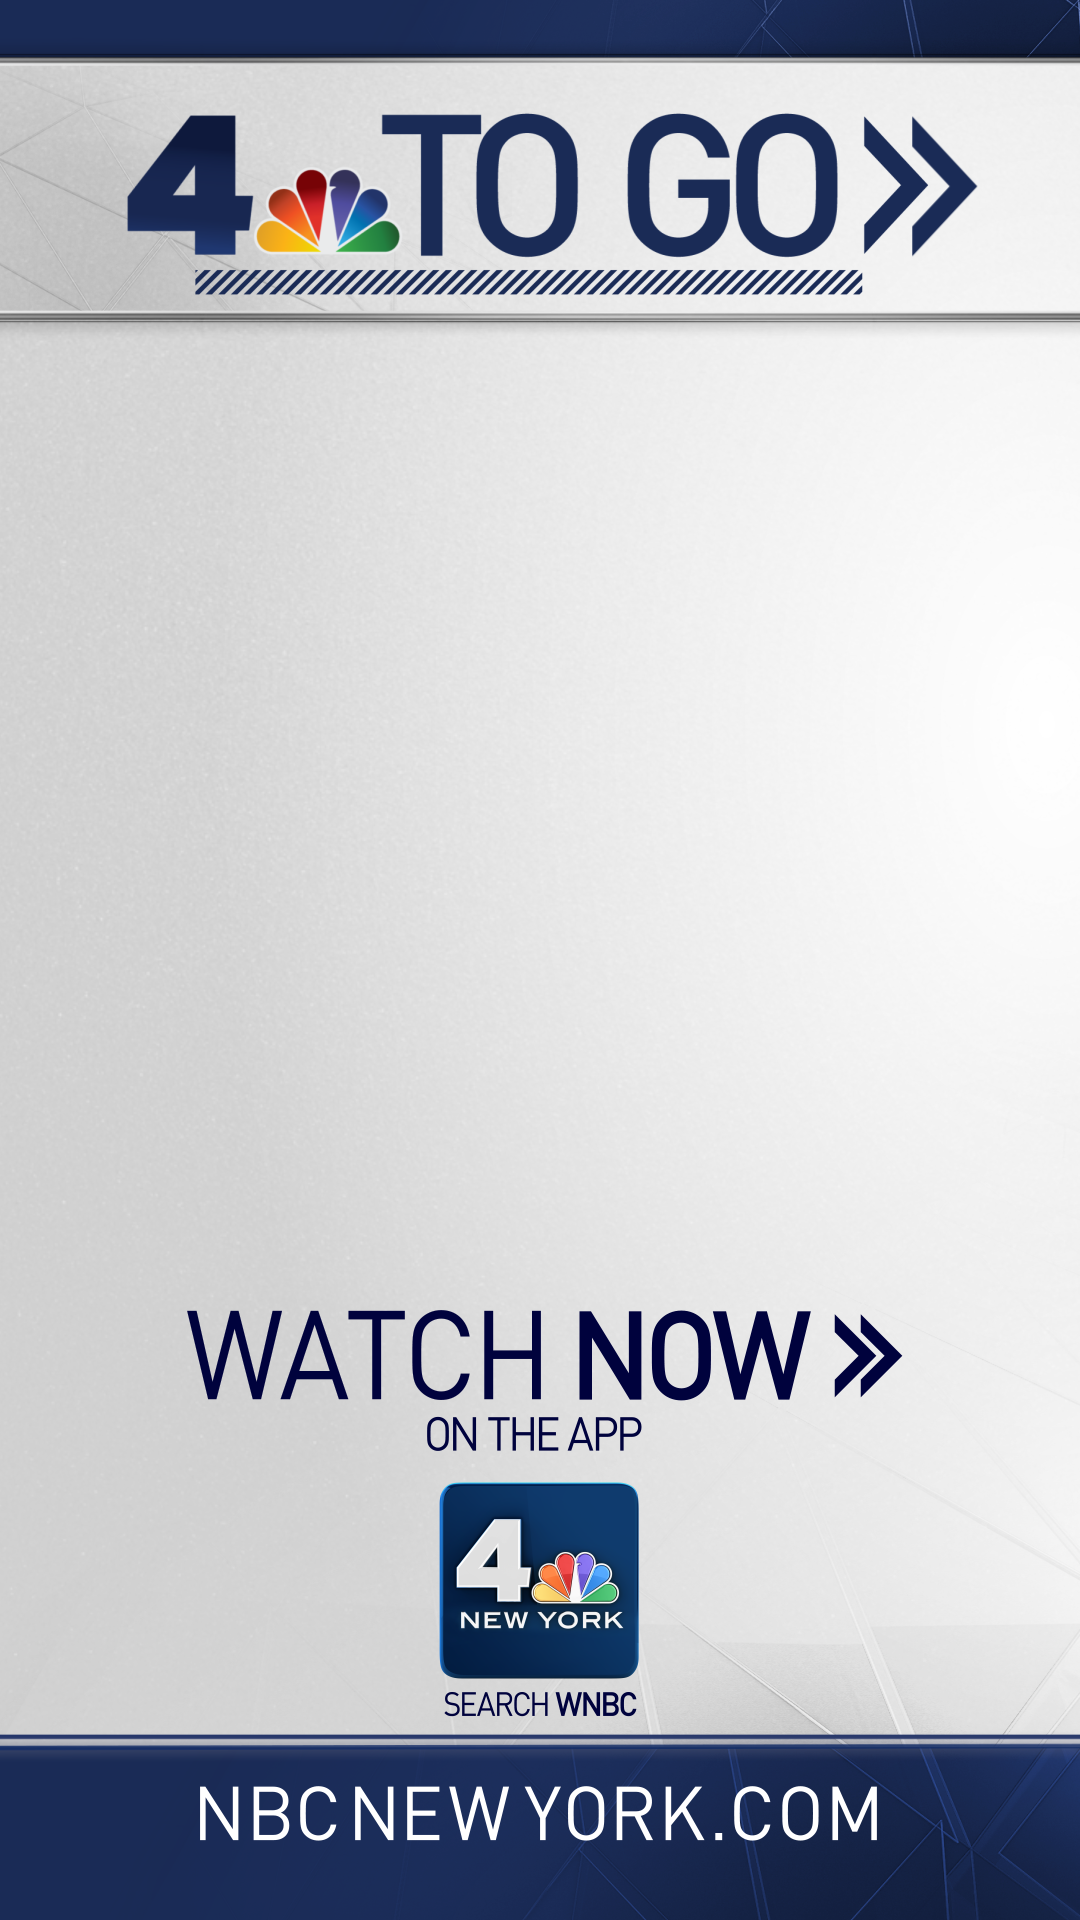
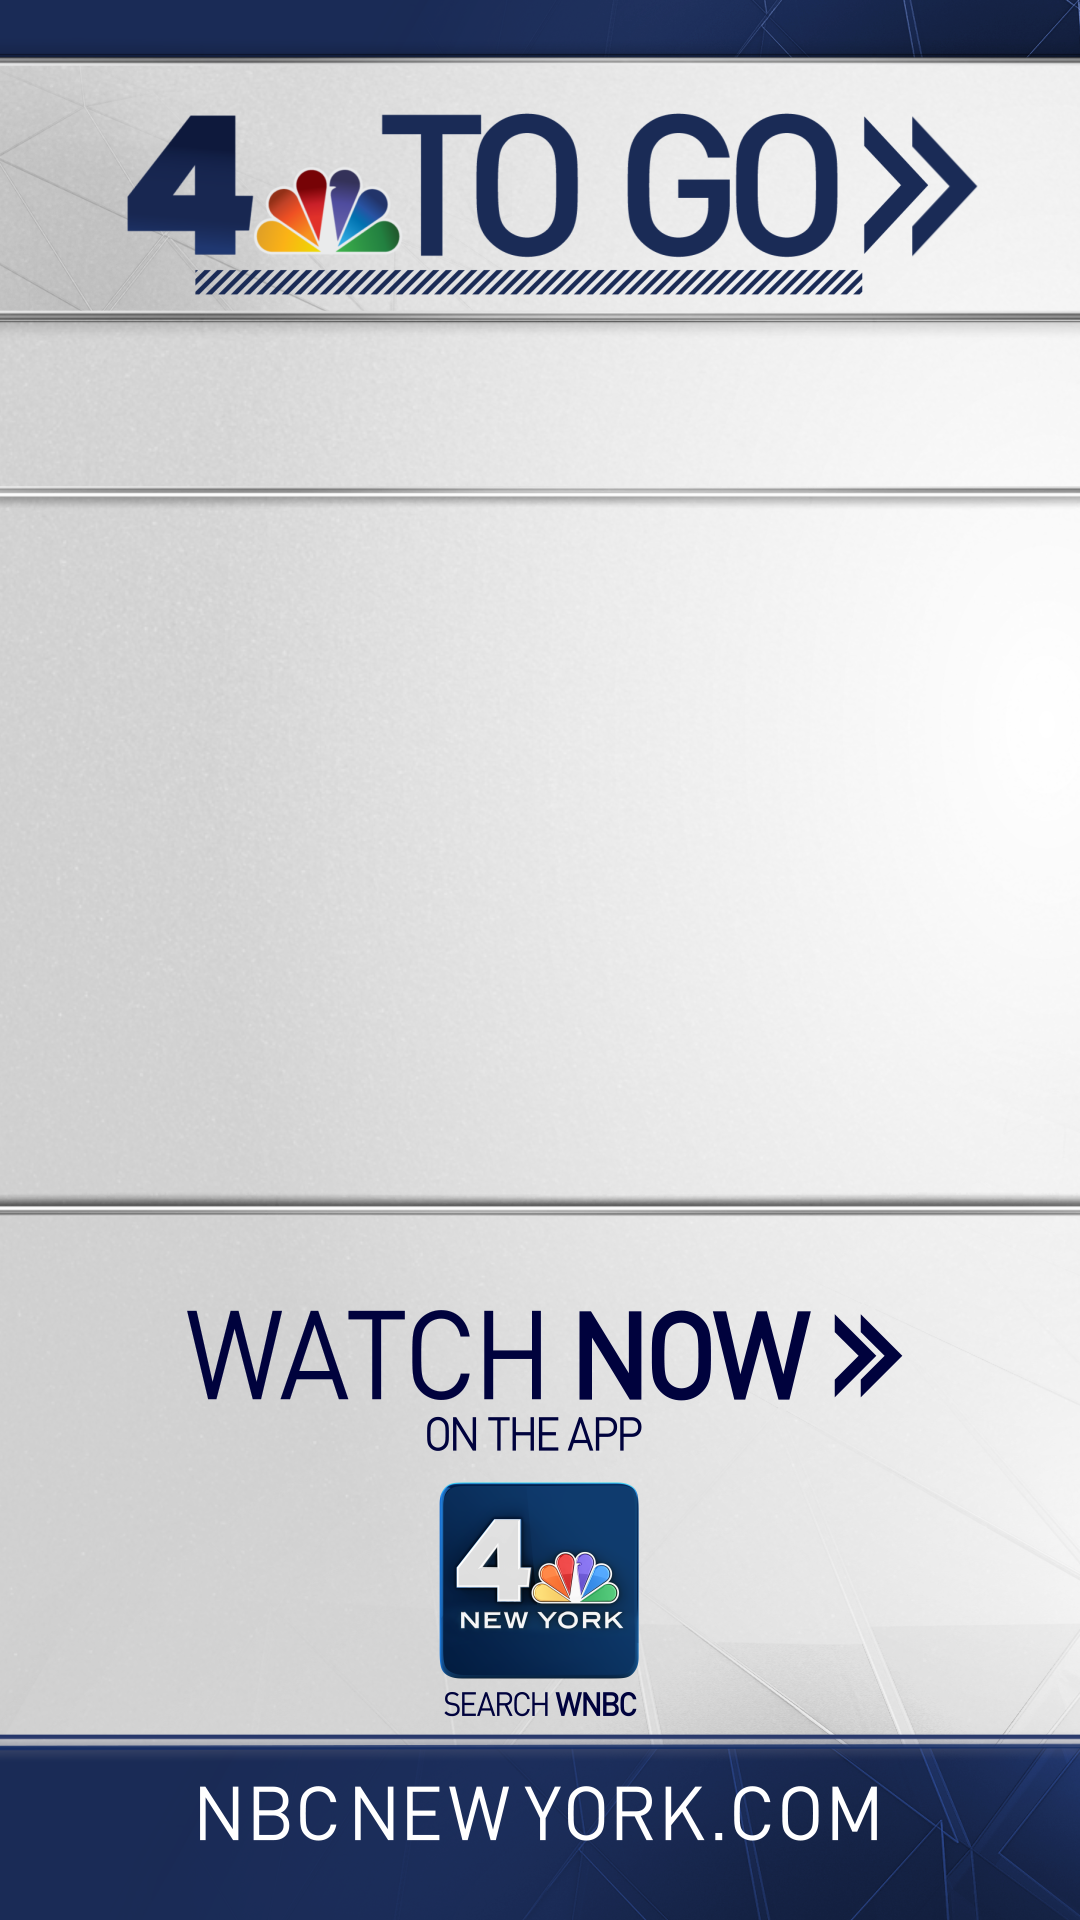
changes to background image

Changed region(s): [[0.0, 0.625, 1.0, 0.6562], [0.0, 0.25, 1.0, 0.2812]]

diff --git a/src/styles/css/global.css b/src/styles/css/global.css
@@ -3,20 +3,6 @@ html {
 }
 
 @font-face {
-  font-family: "SourceSansPro-Bold";
-  font-style: normal;
-  font-weight: 500;
-  src: url("../fonts/source-sans-pro/SourceSansPro-Bold.otf") format("opentype");
-}
-
-@font-face {
-  font-family: "SourceSansPro-Light";
-  font-style: normal;
-  font-weight: 200;
-  src: url("../fonts/source-sans-pro/SourceSansPro-Light.otf") format("opentype");
-}
-
-@font-face {
   font-family: "Roboto-Thin";
   font-style: normal;
   font-weight: 200;
@@ -35,6 +21,13 @@ html {
   font-style: normal;
   font-weight: 200;
   src: url("../fonts/arthouse-din/AH-DIN-Regular.ttf") format('truetype')
+}
+
+@font-face {
+  font-family: "Din-Medium";
+  font-style: normal;
+  font-weight: 200;
+  src: url("../fonts/arthouse-din/AH-DIN-Medium.ttf") format('truetype')
 }
 
 @font-face {
@@ -115,15 +108,18 @@ body {
   background-color: rgba(36,40,59,.8);
   color: white;
   height: 194px;
+  font-family: "Din";
   overflow: hidden;
   width: 100%;
   box-sizing: border-box;
-  font-size: 65px;
+  font-size: 62px;
+  line-height: 70px;
   position: absolute;
+  text-shadow: 2px 3px 0px rgba(0,0,0,.7);
   bottom: 0px;
   left: 0px;
   margin: 0px;
-  padding: 20px 81px 0px;
+  padding: 25px 81px 0px;
 }
 
 .hide {
